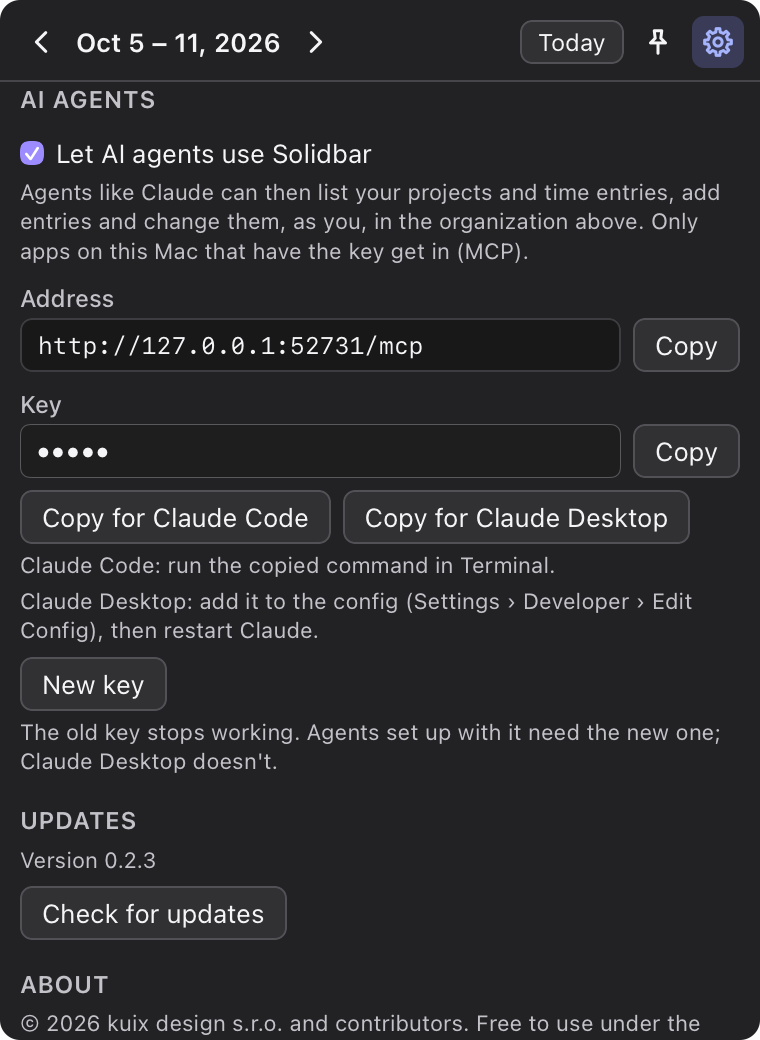
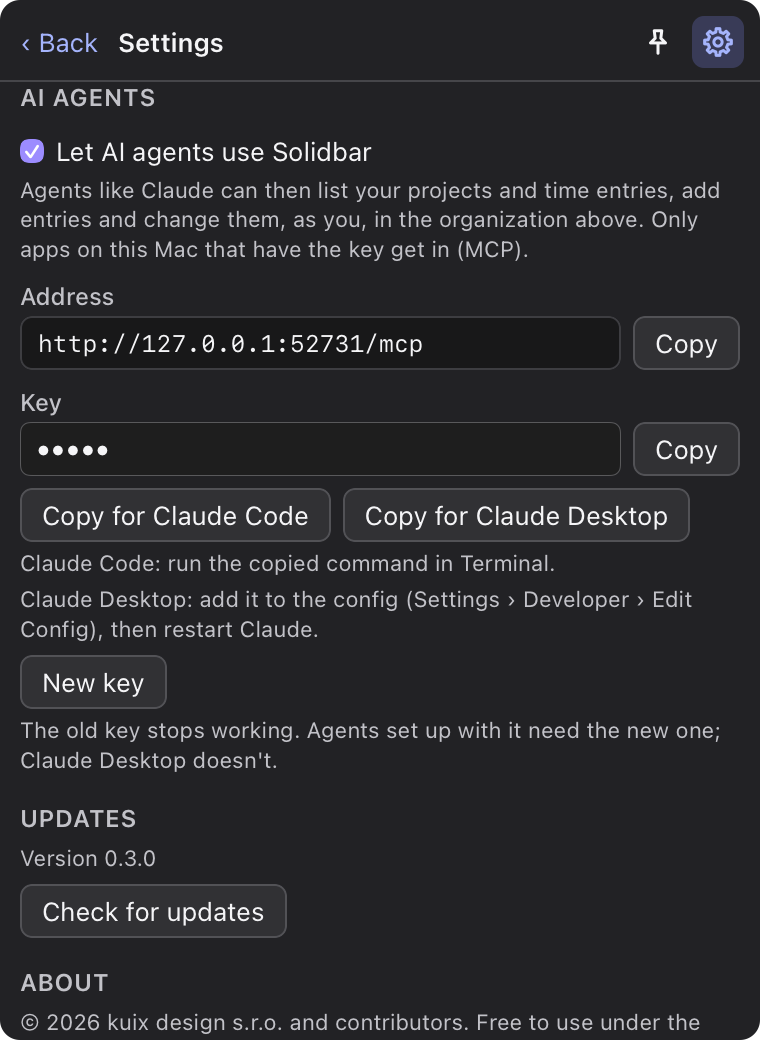
Settings without the week navigator
Settings still had the week's arrows and Today over it, though there are
no days in Settings. Its header now shows "‹ Back  Settings" there
instead, next to the pin and the gear, which also saves a row.

diff --git a/e2e/tests/panel.spec.ts b/e2e/tests/panel.spec.ts
@@ -403,6 +403,10 @@ test("settings open with ⌘, in place of the days, and close with Escape", asyn
   await page.keyboard.press("Meta+Comma");
   await expect(page.getByRole("heading", { name: "Settings" })).toBeVisible();
   await expect(days).toHaveCount(0);
+  // Settings takes the week's place in the header, and Today goes.
+  await expect(page.getByRole("button", { name: "Previous week" })).toHaveCount(0);
+  await expect(page.getByRole("button", { name: "Today" })).toHaveCount(0);
+  await expect(page.getByRole("button", { name: "‹ Back" })).toBeFocused();
   await expect(page.getByRole("button", { name: "Show or hide Solidbar ⌥⌘T", exact: true })).toBeVisible();
   await page.screenshot({ path: "screenshots/settings.png", fullPage: true });
   await expectAccessible(page);

diff --git a/crates/ui/styles/app.css b/crates/ui/styles/app.css
@@ -1205,15 +1205,14 @@ input.time-field {
   letter-spacing: 0.03em;
 }
 
-.settings-header {
-  display: flex;
-  align-items: center;
-  gap: 10px;
+/* In the header, in line with the settings under it. */
+.settings-nav {
+  gap: 8px;
+  padding-left: 2px;
 }
 
-.settings-header h2 {
-  font-size: 13px;
-  font-weight: 600;
+.settings > h3:first-child {
+  margin-top: 4px;
 }
 
 .account {

diff --git a/crates/ui/src/shell.rs b/crates/ui/src/shell.rs
@@ -81,7 +81,7 @@ fn Header(week: Memo<Option<WeekView>>) -> impl IntoView {
         store.run::<PanelSetPinned>(PinArgs { pinned });
     };
 
-    let in_form = Memo::new(move |_| store.screen.get() == Screen::Form);
+    let screen = Memo::new(move |_| store.screen.get());
     let week_nav = move || {
         view! {
             <div class="week-nav">
@@ -121,10 +121,13 @@ fn Header(week: Memo<Option<WeekView>>) -> impl IntoView {
 
     view! {
         <header class="header">
-            // The form's entry goes on one day, which these change; weeks and today don't matter.
-            <Show when=move || in_form.get() fallback=week_nav>
-                <FormDayNav />
-            </Show>
+            // Weeks and today are only about the list. The form's entry goes on one day, which
+            // its header changes; Settings has no days at all.
+            {move || match screen.get() {
+                Screen::List => week_nav().into_any(),
+                Screen::Form => view! { <FormDayNav /> }.into_any(),
+                Screen::Settings => view! { <SettingsNav /> }.into_any(),
+            }}
             <button
                 type="button"
                 class="icon-button"
@@ -189,6 +192,26 @@ fn FormDayNav() -> impl IntoView {
             >
                 {icons::chevron_right()}
             </button>
+        </div>
+    }
+}
+
+/// Settings' title, with ‹ Back (Escape) to the list.
+#[component]
+fn SettingsNav() -> impl IntoView {
+    let store = expect_context::<Store>();
+    view! {
+        <div class="week-nav settings-nav">
+            <button
+                type="button"
+                id="settings-back"
+                class="link"
+                aria-keyshortcuts="Escape"
+                on:click=move |_| store.close_settings()
+            >
+                "‹ Back"
+            </button>
+            <h1 id="settings-title" class="week-label">"Settings"</h1>
         </div>
     }
 }

diff --git a/crates/ui/src/settings.rs b/crates/ui/src/settings.rs
@@ -76,7 +76,6 @@ pub fn Settings() -> impl IntoView {
             }
         });
     };
-    let back = move |_| store.close_settings();
     let theme_choice = move |theme: Theme, label: &'static str| {
         view! {
             <label class="choice">
@@ -119,19 +118,6 @@ pub fn Settings() -> impl IntoView {
 
     view! {
         <section class="settings" aria-labelledby="settings-title">
-            <div class="settings-header">
-                <button
-                    type="button"
-                    id="settings-back"
-                    class="link"
-                    aria-keyshortcuts="Escape"
-                    on:click=back
-                >
-                    "‹ Back"
-                </button>
-                <h2 id="settings-title">"Settings"</h2>
-            </div>
-
             <h3>"Account"</h3>
             {move || {
                 account
